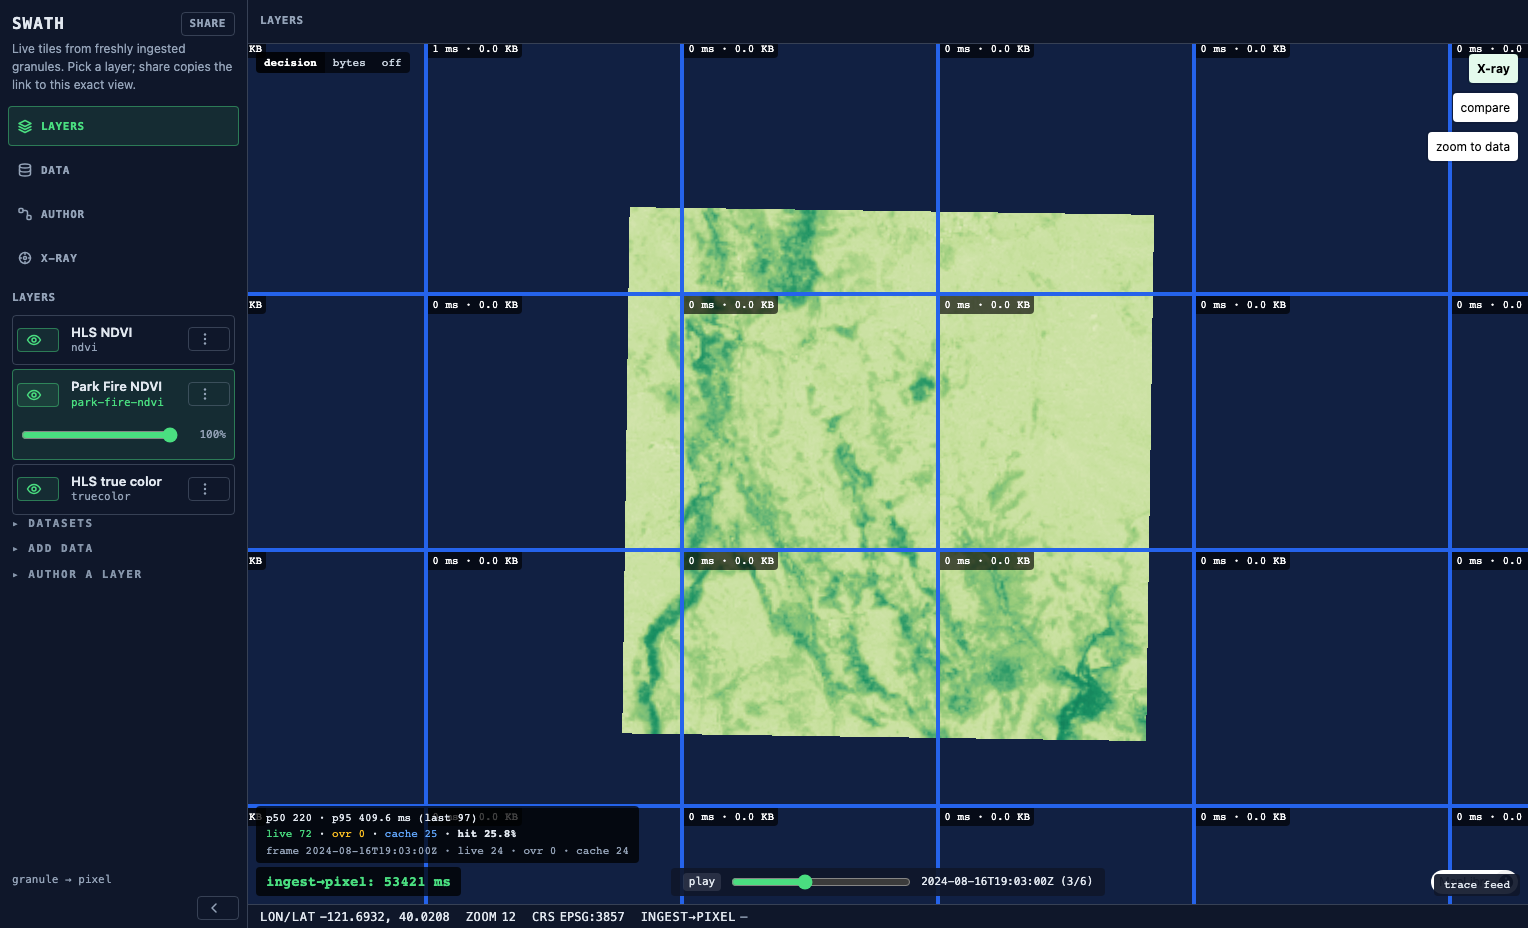
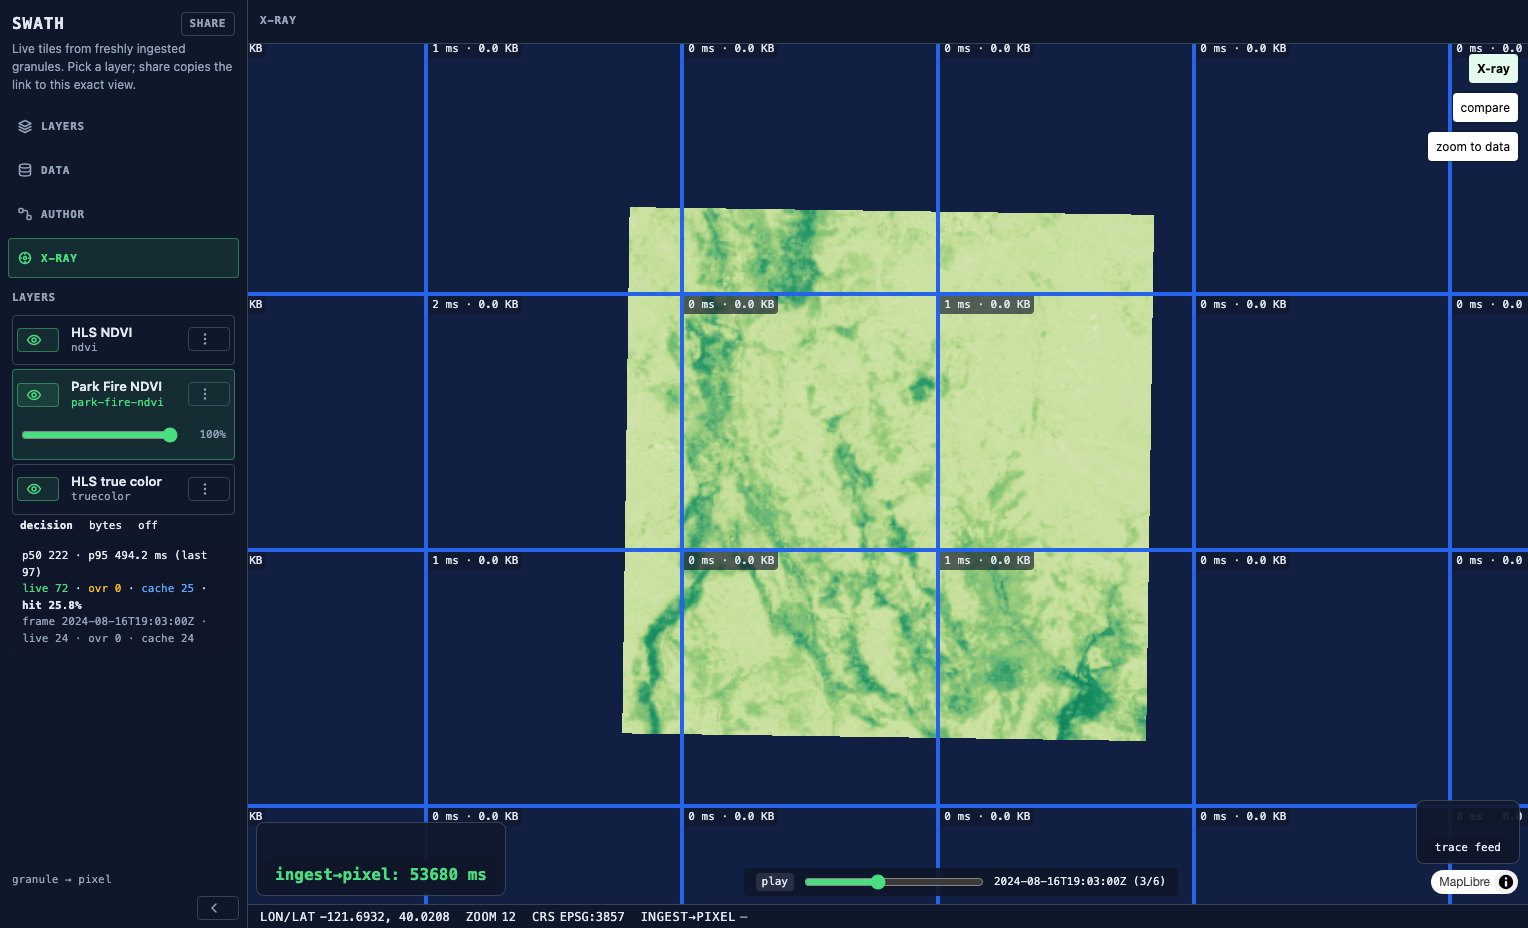
docs(media): regenerate screenshots — x-ray chrome in the dock and rail

diff --git a/docs/media/screenshots/index.md b/docs/media/screenshots/index.md
@@ -7,8 +7,8 @@ show a painted map (`pdiff --content`: the map region is never near-uniform), an
 capture run must reproduce each shot within its perceptual-diff policy
 (tests/screenshots/verify_stable.py + swath-testkit pdiff) before the recipe passes.
 
-- capture sha: `e97d95b7bee5f4e34a60d83613257a27a5c25f68`
-- captured: 2026-08-27T19:04:17.605Z
+- capture sha: `0bbf359b0bc8b139cd5f39164b151fc5d6b87afe`
+- captured: 2026-08-27T19:35:51.201Z
 - machine-readable manifest (per-shot sha256 + pdiff policy): [`shots.json`](shots.json)
 
 | shot | evidences |
